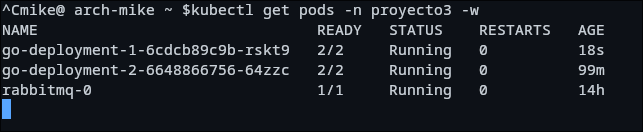
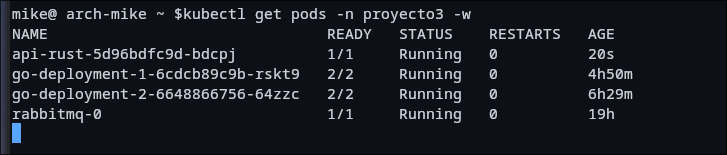
feat: Add Kubernetes deployment for the Rust API

diff --git a/Proyecto3/README.md b/Proyecto3/README.md
@@ -561,6 +561,23 @@ kubectl rollout status deployment/go-deployment-2 -n proyecto3 --timeout=120s
 
 Para observar el estado de los pods en tiempo real, ejecuta el comando `kubectl get pods -n proyecto3-w`.
 
+#### Api-Rust
+
+El deployment de api-rust se encuentra en la carpeta `api-rust/k8s/02-deployment.yml`. El deployment llamado `api-rust` maneja un solo contenedor que llama la imagen de `api-rust` desde el zot registry. Habilita el puerto http en el puerto 8080. Luego busca el servicio de go en el configmap. Su readiness y el liveness se verifican en la ruta `/health`
+
+Para aplicar su configuración, ejecuta el comando 
+```bash
+kubectl apply -f api-rust/k8s/02-deployment.yml```
+Y para verificar su estado, ejecuta
+```bash
+kubectl rollout status deployment/api-rust -n proyecto3
+```
+
+Para ver los deployments creados se ejecuta el comando 
+```bash
+kubectl get deployments -n proyecto3
+```
+
 ![](imgs/deployments.png)
 
 # Recursos
